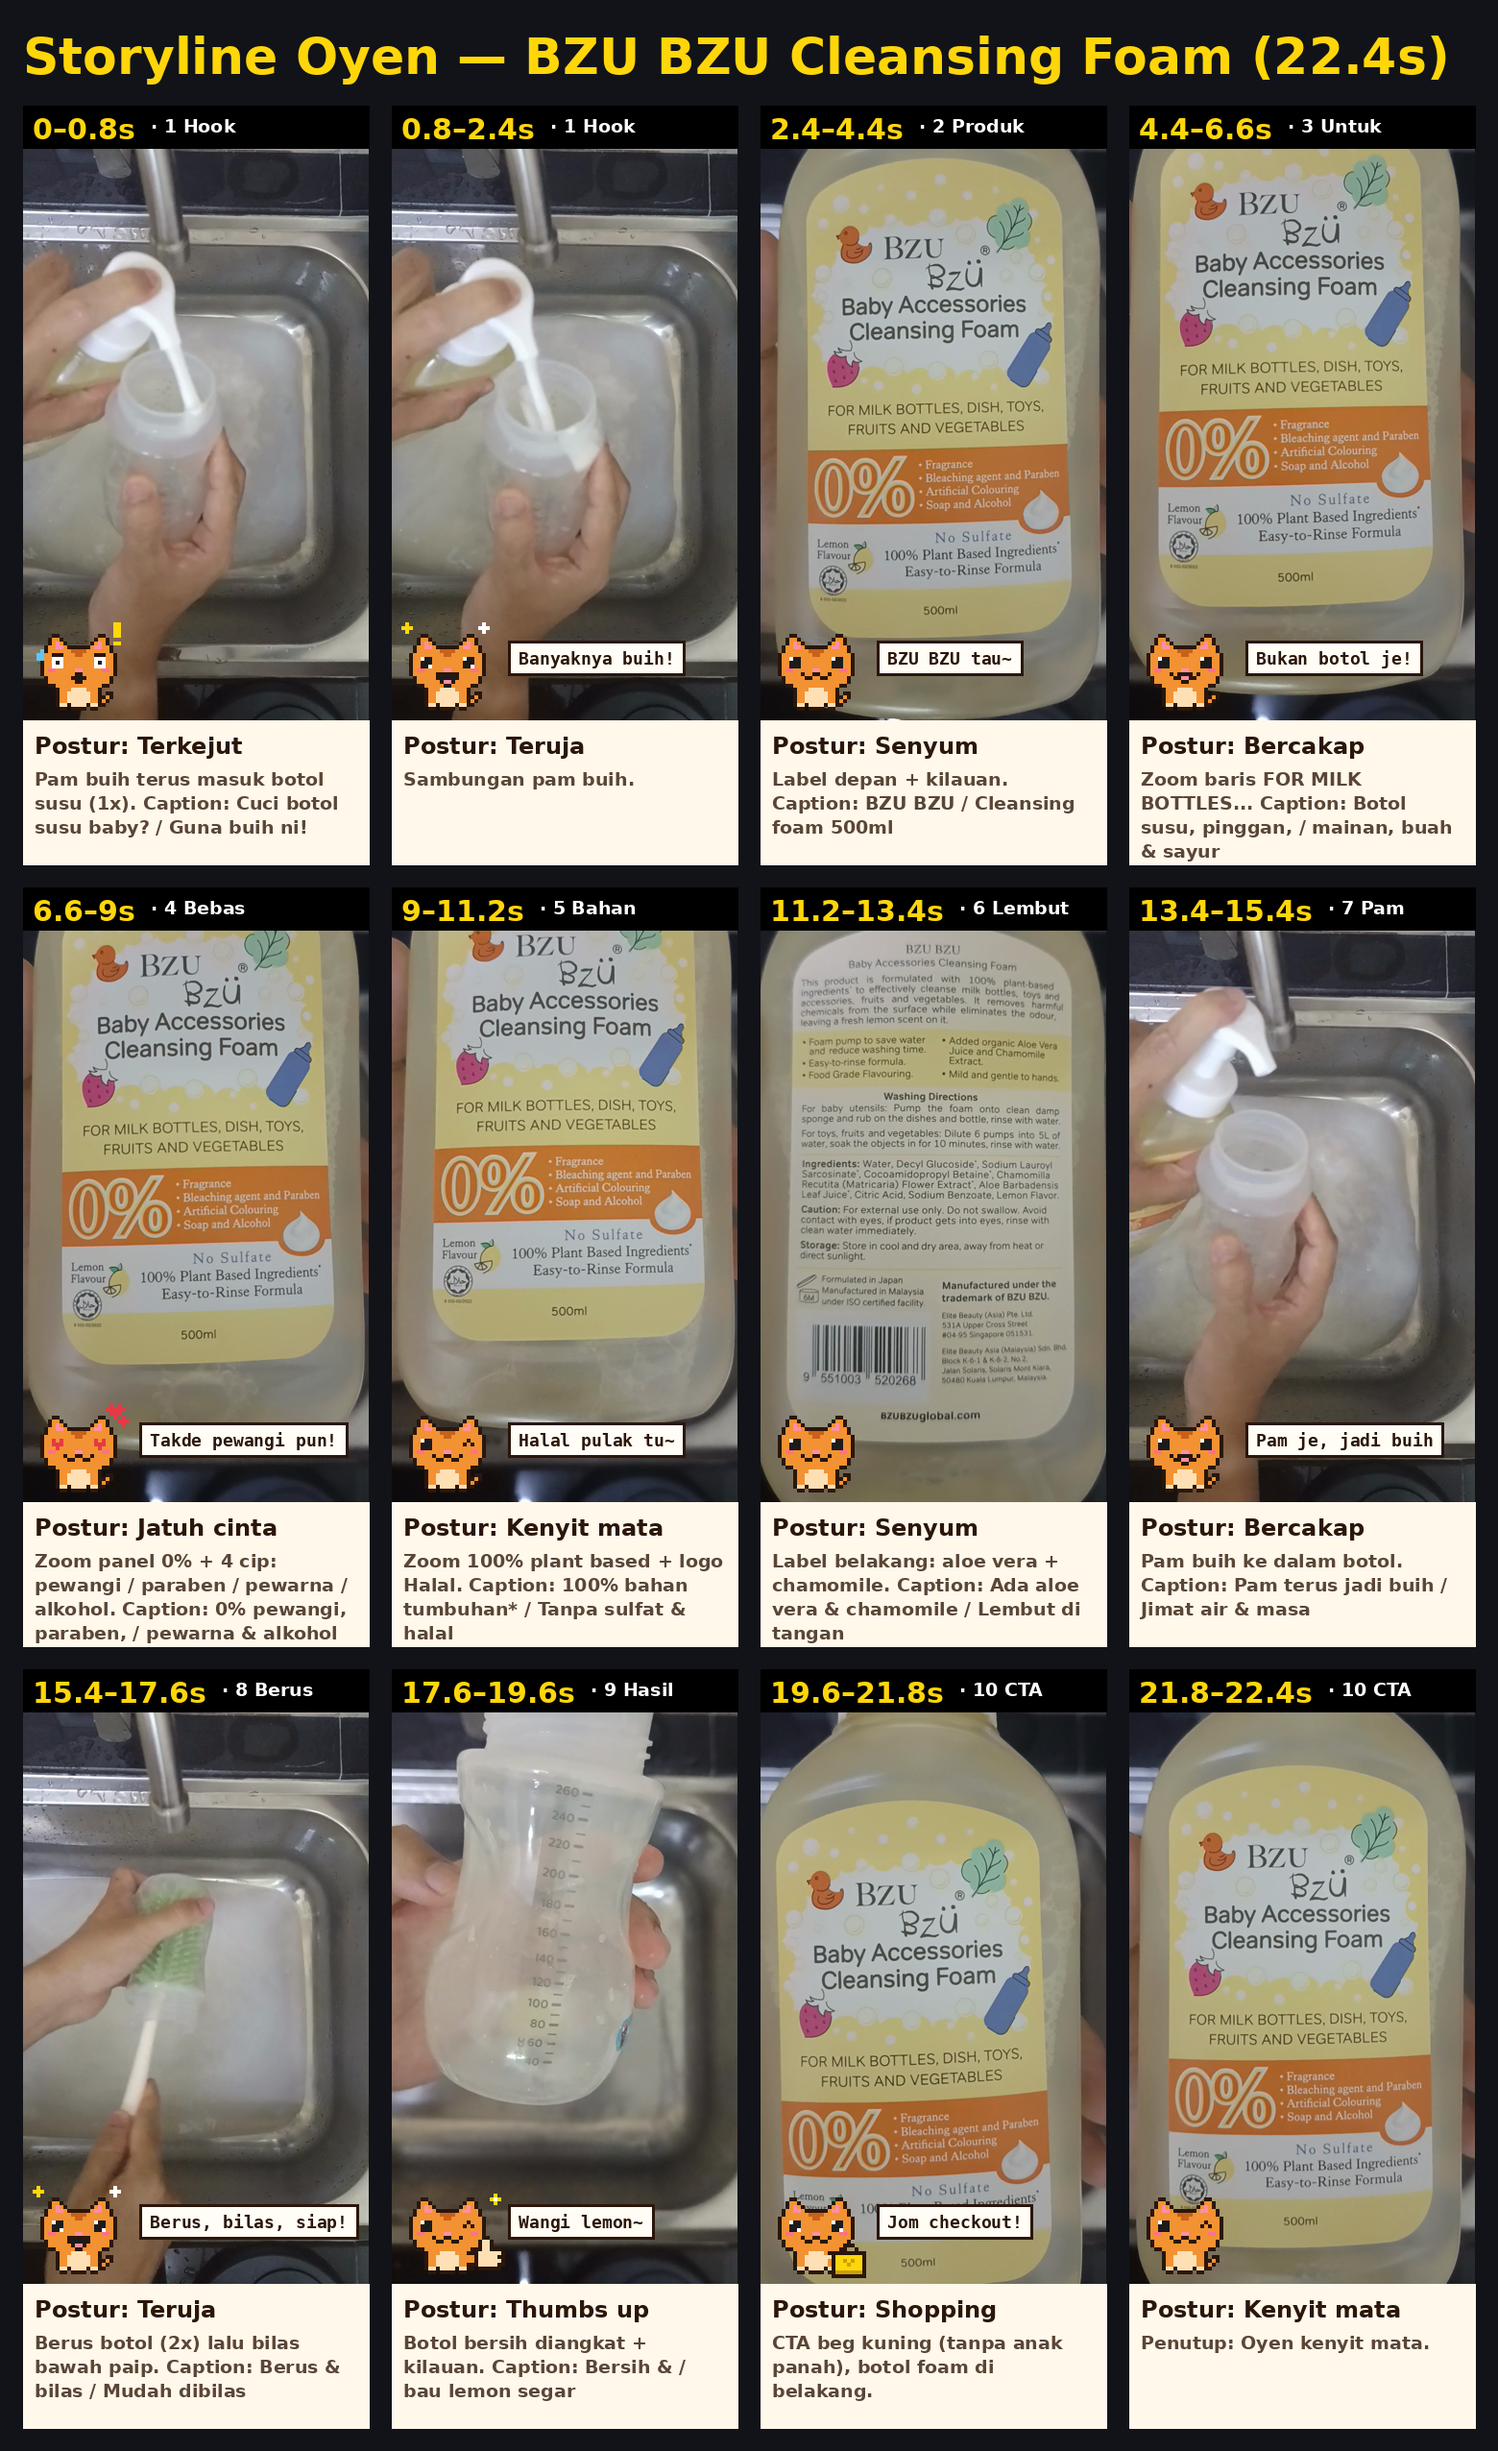
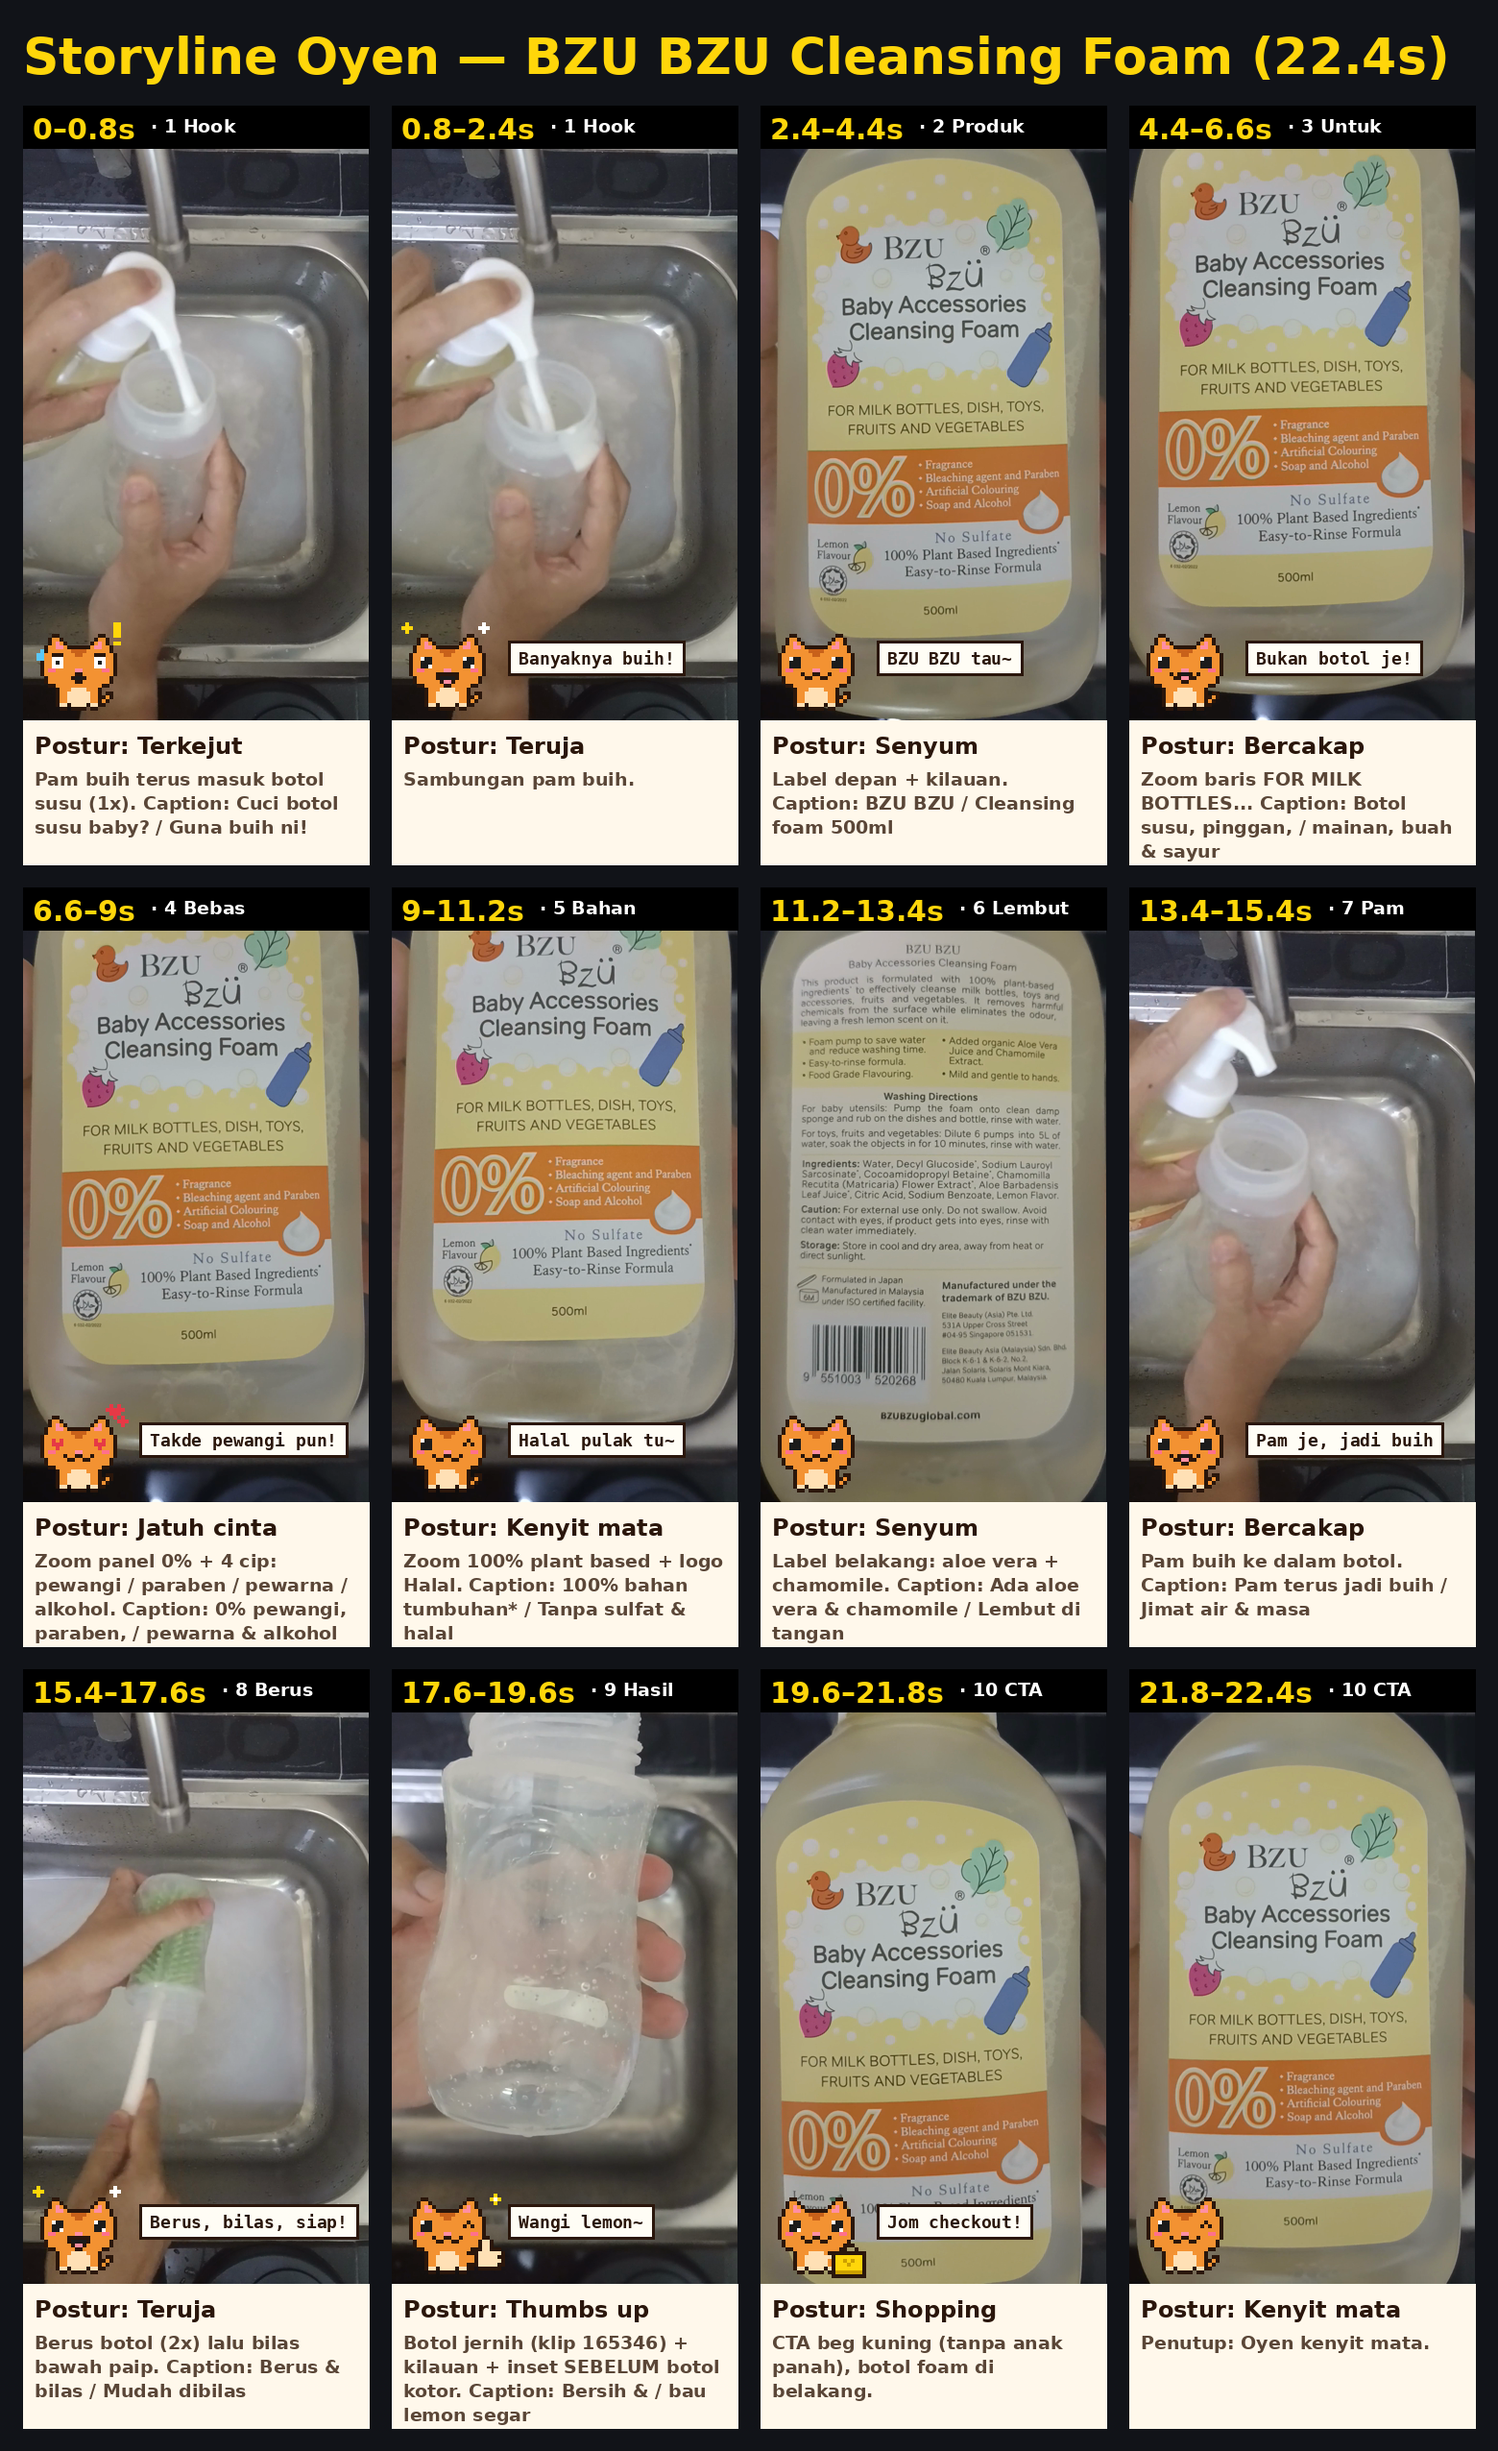
bzu-bzu-cleansing-foam: result shot uses the clean-bottle clip, dirty bottle as before inset
Claude-Session: https://claude.ai/code/session_01FSFWWRvHpWTAnMm2R9b5o9

diff --git a/videos/bzu-bzu-cleansing-foam/index.html b/videos/bzu-bzu-cleansing-foam/index.html
@@ -193,6 +193,42 @@
         color: #2a1f1a;
       }
 
+      #before {
+        position: absolute;
+        left: 56px;
+        top: 470px;
+        width: 330px;
+      }
+      #before img {
+        display: block;
+        width: 330px;
+        height: 440px;
+        object-fit: cover;
+        border: 10px solid #fff;
+        border-radius: 34px;
+        box-shadow: 0 16px 36px rgba(42, 31, 26, 0.3);
+      }
+      .tag {
+        display: inline-block;
+        margin-bottom: 10px;
+        padding: 4px 26px 10px;
+        border-radius: 30px;
+        background: #fff;
+        box-shadow: 0 8px 18px rgba(42, 31, 26, 0.2);
+        font-family: Fredoka, sans-serif;
+        font-weight: 700;
+        font-size: 44px;
+        color: #2a1f1a;
+      }
+      .tag.yellow {
+        background: #ffe46b;
+      }
+      #after-tag {
+        position: absolute;
+        left: 700px;
+        top: 470px;
+      }
+
       /* ---------- CTA ---------- */
       #cta {
         position: absolute;
@@ -318,7 +354,7 @@
           <video id="v9" class="clip" src="assets/source-portrait.mp4" data-start="16.6" data-duration="1" data-media-start="51.0" data-playback-rate="1.5" data-track-index="0" muted playsinline></video>
         </div>
         <div class="shot" data-layout-allow-overflow id="sh10">
-          <video id="v10" class="clip" src="assets/source-portrait.mp4" data-start="17.6" data-duration="2" data-media-start="65.8" data-track-index="0" muted playsinline></video>
+          <video id="v10" class="clip" src="assets/source-portrait.mp4" data-start="17.6" data-duration="2" data-media-start="70.4" data-track-index="0" muted playsinline></video>
         </div>
         <div class="shot" data-layout-allow-overflow id="sh11">
           <video id="v11" class="clip" src="assets/source-portrait.mp4" data-start="19.6" data-duration="2.8" data-media-start="15.4" data-playback-rate="0.8" data-track-index="0" muted playsinline></video>
@@ -371,6 +407,11 @@
       <div id="chip3" class="chip clip" data-start="6.6" data-duration="2.4" data-track-index="5" style="left: 380px; top: 1150px">0% Pewarna</div>
       <div id="chip4" class="chip clip" data-start="6.6" data-duration="2.4" data-track-index="6" style="left: 710px; top: 1150px">0% Alkohol</div>
       <div id="ff1" class="ff clip" data-start="15.4" data-duration="1.2" data-track-index="7"><svg width="44" height="32" viewBox="0 0 28 20"><path d="M1 1l12 9-12 9zM14 1l12 9-12 9z" fill="#2a1f1a" /></svg>2X</div>
+      <div id="before" class="clip" data-start="17.6" data-duration="2" data-track-index="8">
+        <span class="tag">Sebelum</span>
+        <img src="assets/before.jpg" alt="" />
+      </div>
+      <div id="after-tag" class="clip" data-start="17.6" data-duration="2" data-track-index="9"><span class="tag yellow">Selepas</span></div>
 
       <!-- ================= CTA (no arrow: the user asked for none in the end scene) ================= -->
       <div id="cta" class="clip" data-start="19.6" data-duration="2.8" data-track-index="5">
@@ -511,11 +552,13 @@
       sticker("#ff1", 15.45, -4);
       settle("#sh9", 16.6, 1.06);
 
-      // ---------- 9. Clean bottle ----------
-      settle("#sh10", 17.6, 1.1);
+      // ---------- 9. Clean bottle, dirty one as the "before" inset ----------
+      settle("#sh10", 17.6, 1.04);
       flash(17.6, 0.3);
       caption("#cap9", 17.6, 2);
       shine(17.85);
+      tl.fromTo("#before", { opacity: 0, scale: 0.6, rotation: -14 }, { opacity: 1, scale: 1, rotation: -5, duration: 0.4, ease: "back.out(2)" }, 17.75);
+      sticker("#after-tag", 17.9, 4);
 
       // ---------- 10. CTA (no arrow) ----------
       settle("#sh11", 19.6, 1.04);

diff --git a/videos/bzu-bzu-cleansing-foam/storyline.py b/videos/bzu-bzu-cleansing-foam/storyline.py
@@ -4,8 +4,8 @@ Footage: assets/source-portrait.mp4 = the 6 phone clips joined in order (camera
 sound removed). Usable (joined-file seconds):
   front label 0.5-3, 14-22 (steady 15.5-17.5); back label 3.5-13.5 (steady 6-8)
   sink + bottle 22-30; pump foam into the bottle 30.5-33.5 (foam stream 32-33);
-  bottle brush 37.5-50; rinsing under the tap 50.5-57; clean bottle held up 58.5-60.5,
-  65-72.5 (graduations visible 66-68)
+  bottle brush 37.5-50; rinsing under the tap 50.5-57; rinsed bottle 58.5-60.5; bottle with milk residue (dirty) 65-69;
+  clean, clear bottle 69.3-72.5
 Claims come from the label only: for milk bottles, dish, toys, fruits & vegetables;
 0% fragrance, bleaching agent & paraben, artificial colouring, soap & alcohol; no sulfate;
 100% plant-based ingredients*; easy-to-rinse; foam pump saves water and washing time;
@@ -41,7 +41,7 @@ STORYLINE = Storyline(
         Beat(15.4, 17.6, "8 Berus", "Teruja", "Berus, bilas, siap!",
              "Berus botol (2x) lalu bilas bawah paip. Caption: Berus & bilas / Mudah dibilas", src=40.5),
         Beat(17.6, 19.6, "9 Hasil", "Thumbs up", "Wangi lemon~",
-             "Botol bersih diangkat + kilauan. Caption: Bersih & / bau lemon segar", src=66.5),
+             "Botol jernih (klip 165346) + kilauan + inset SEBELUM botol kotor. Caption: Bersih & / bau lemon segar", src=71.2),
         Beat(19.6, 21.8, "10 CTA", "Shopping", "Jom checkout!",
              "CTA beg kuning (tanpa anak panah), botol foam di belakang.", src=15.0),
         Beat(21.8, 22.4, "10 CTA", "Kenyit mata", None,

diff --git a/videos/bzu-bzu-cleansing-foam/storyboard/STORYLINE.md b/videos/bzu-bzu-cleansing-foam/storyboard/STORYLINE.md
@@ -13,7 +13,7 @@ Generated by `python3 -m oyen storyboard` from `storyline.py`; edit that file, n
 | 11.20–13.40 | 6 Lembut | Senyum | — | Label belakang: aloe vera + chamomile. Caption: Ada aloe vera & chamomile / Lembut di tangan |
 | 13.40–15.40 | 7 Pam | Bercakap | Pam je, jadi buih | Pam buih ke dalam botol. Caption: Pam terus jadi buih / Jimat air & masa |
 | 15.40–17.60 | 8 Berus | Teruja | Berus, bilas, siap! | Berus botol (2x) lalu bilas bawah paip. Caption: Berus & bilas / Mudah dibilas |
-| 17.60–19.60 | 9 Hasil | Thumbs up | Wangi lemon~ | Botol bersih diangkat + kilauan. Caption: Bersih & / bau lemon segar |
+| 17.60–19.60 | 9 Hasil | Thumbs up | Wangi lemon~ | Botol jernih (klip 165346) + kilauan + inset SEBELUM botol kotor. Caption: Bersih & / bau lemon segar |
 | 19.60–21.80 | 10 CTA | Shopping | Jom checkout! | CTA beg kuning (tanpa anak panah), botol foam di belakang. |
 | 21.80–22.40 | 10 CTA | Kenyit mata | — | Penutup: Oyen kenyit mata. |
 
